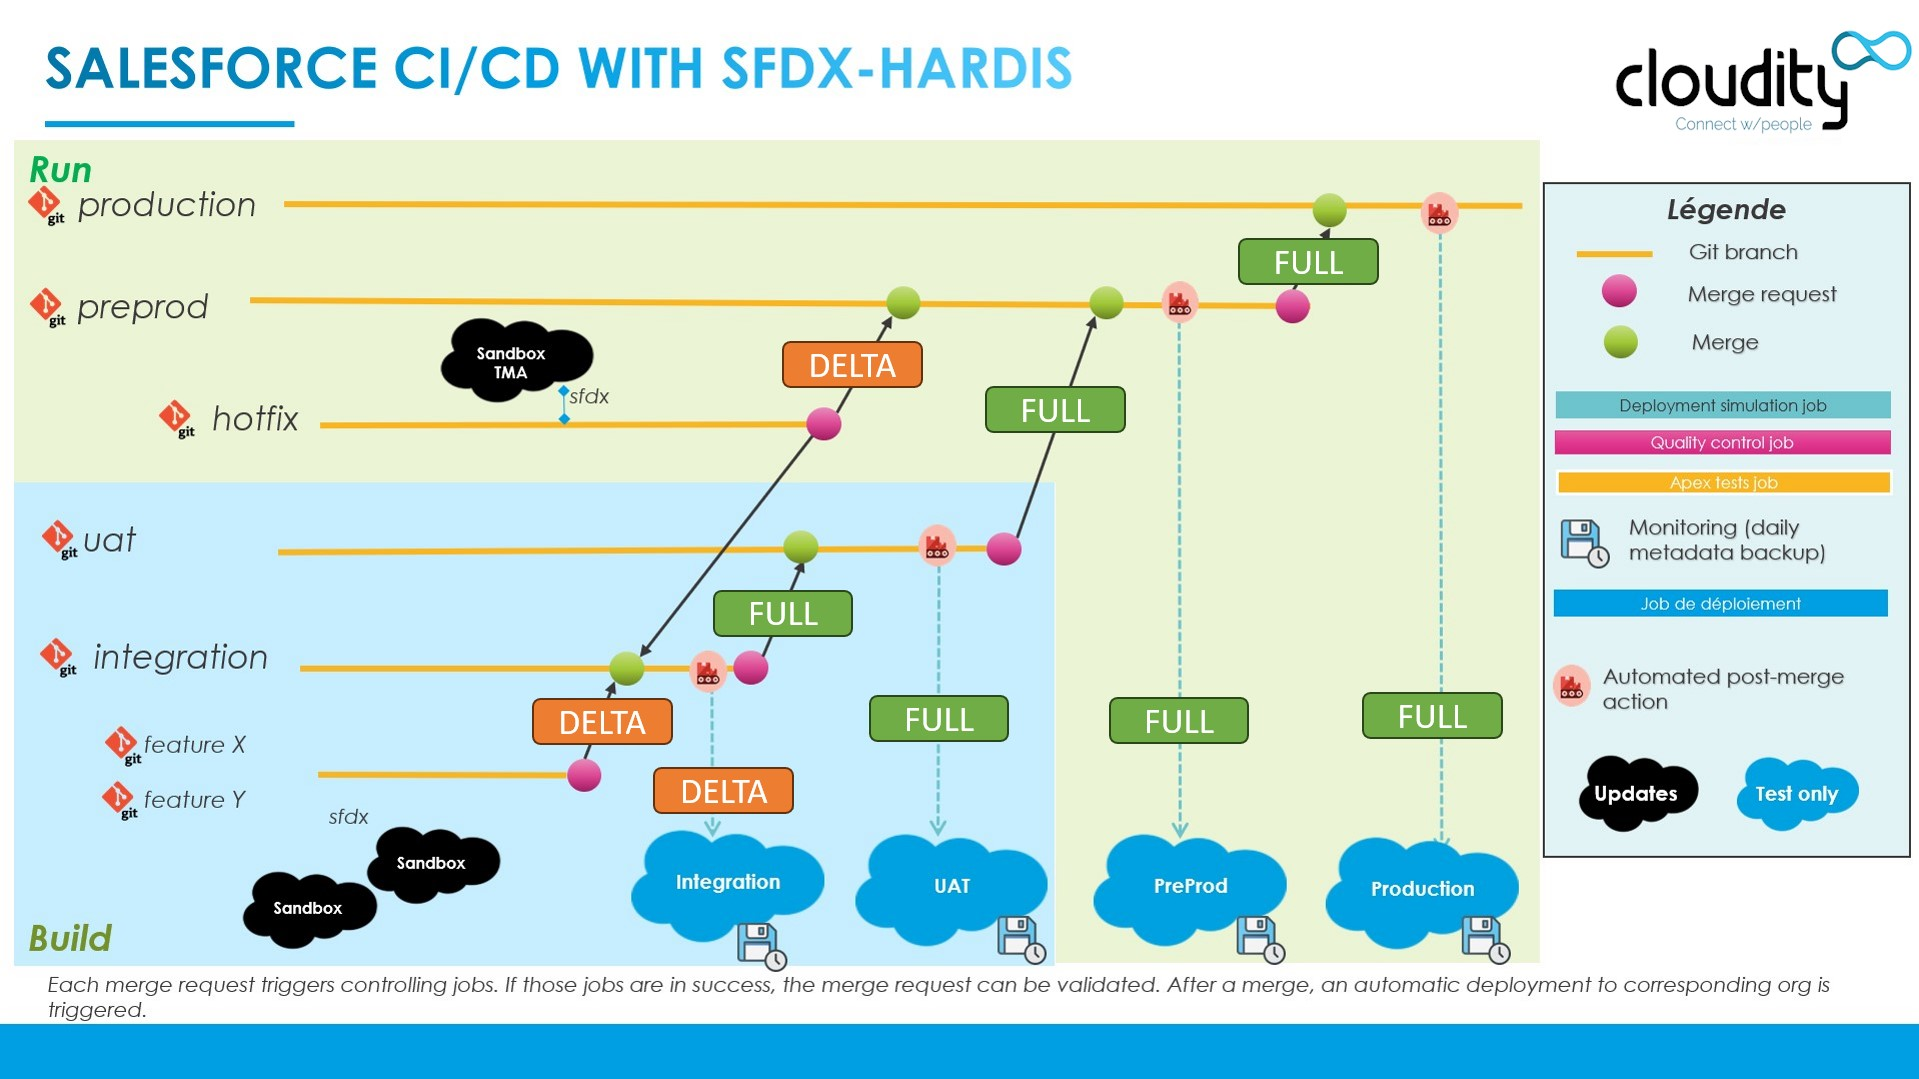
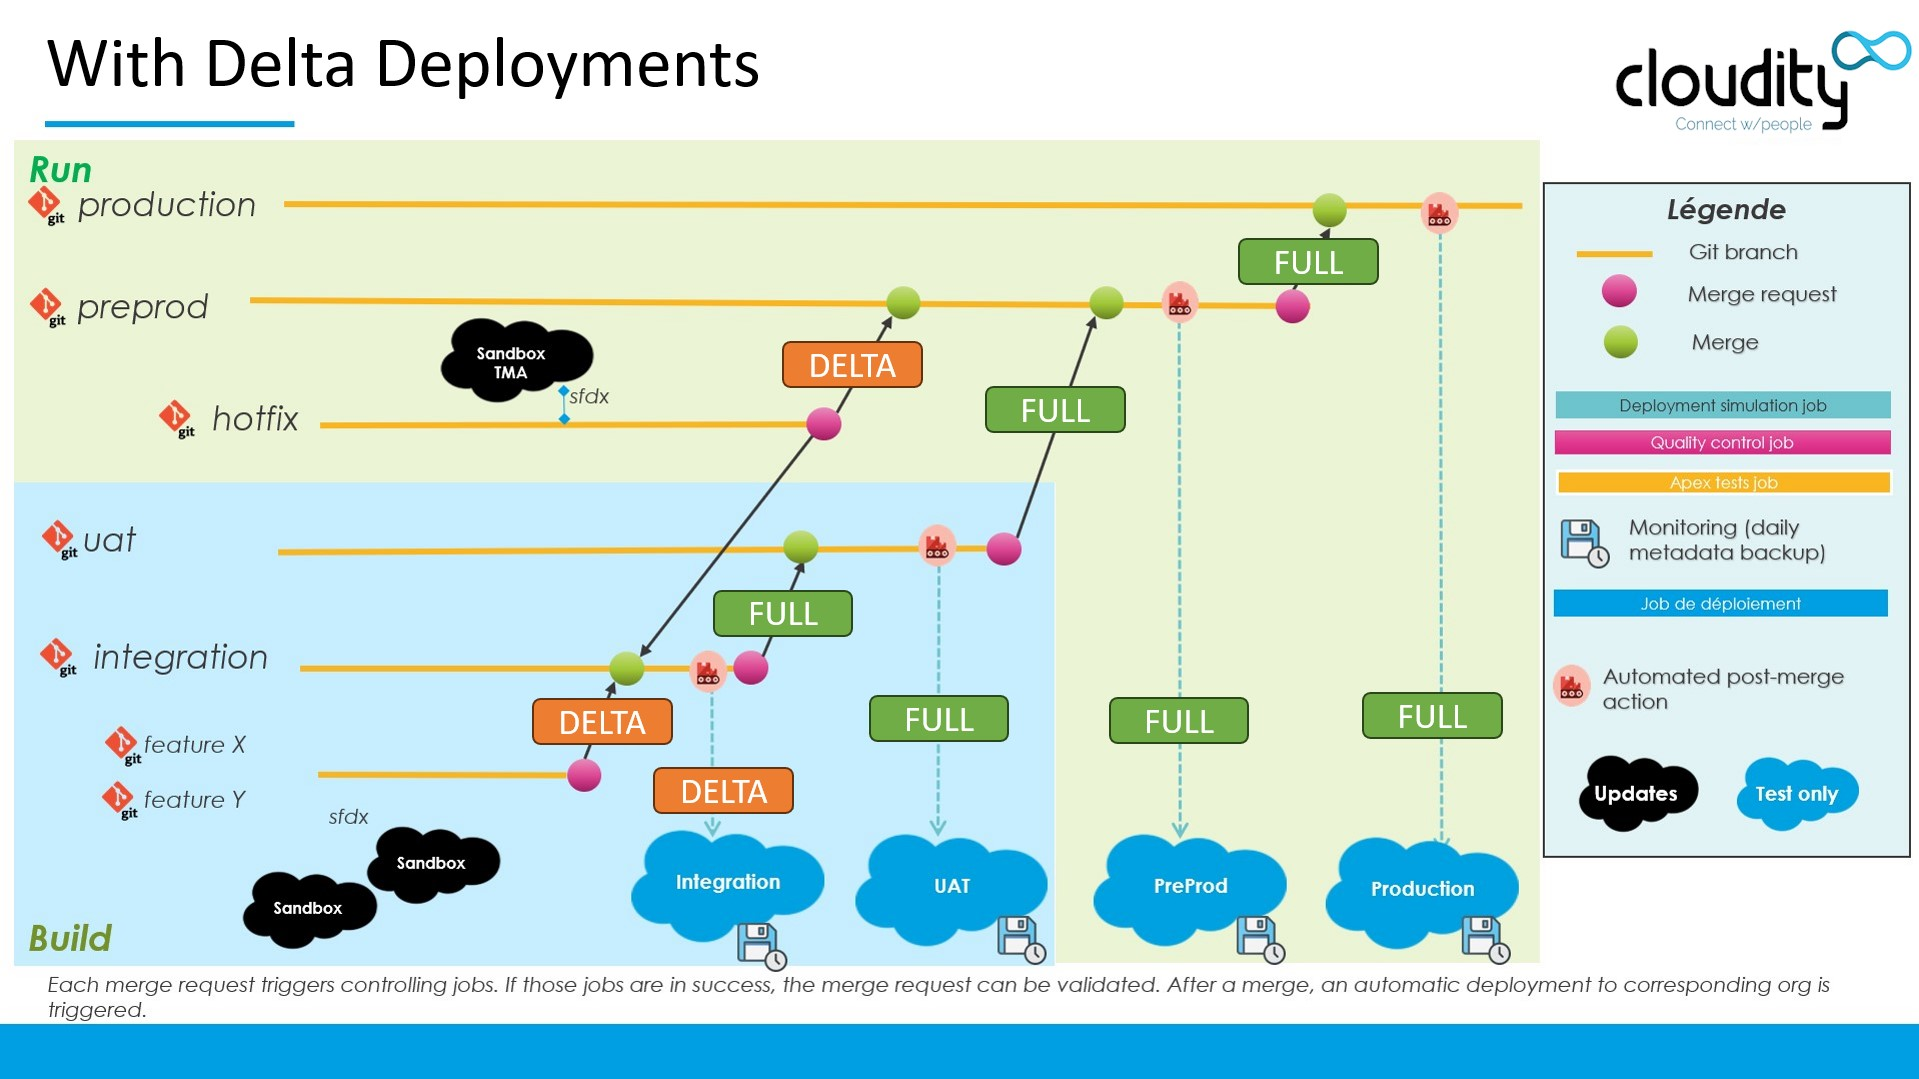
Mode delta illustrations

Changed region(s): [[0.0, 0.0306, 0.5534, 0.0918]]

diff --git a/docs/salesforce-ci-cd-config-delta-deployment.md b/docs/salesforce-ci-cd-config-delta-deployment.md
@@ -5,6 +5,8 @@ description: Learn how to configure Delta Deployments using sfdx-git-delta on a 
 <!-- markdownlint-disable MD013 -->
 
 - [Delta deployments (beta)](#delta-deployments-beta)
+  - [Full mode](#full-mode)
+  - [Delta mode](#delta-mode)
 - [Configuration](#configuration)
 
 ___
@@ -13,16 +15,26 @@ ___
 
 _sfdx-hardis delta deployment is in beta but can already be safely used_
 
+___
+
+### Full mode
+
 By default, all deployments job (check deploy & process deploy) deploy the **full content of the `package.xml` minus what is matching `package-no-overwrite.xml`** (formerly `packageDeployOnce.xml`)
+
+![](assets/images/ci-cd-schema-delta-off.jpg)
 
 This is the safest way to deploy at each level
 
 - major to major
 - minor to major
 
-![](assets/images/ci-cd-schema-delta.jpg)
+___
 
-But in order to improve performances on project with large metadata base, you can **activate delta deployments** for Pull Request/Merge Requests **from a minor branch** (examples: `feature/xxx`, `debug/xxx`) **to a major branch** (ex: `integration`, `uat`, `preprod`, `production`: sfdx-hardis will **deploy only updated metadatas** in the Pull Request / Merge Request.
+### Delta mode
+
+In order to improve performances on project with large metadata base, you can **activate delta deployments** for Pull Request/Merge Requests **from a minor branch** (examples: `feature/xxx`, `debug/xxx`) **to a major branch** (ex: `integration`, `uat`, `preprod`, `production`: sfdx-hardis will **deploy only updated metadatas** in the Pull Request / Merge Request.
+
+![](assets/images/ci-cd-schema-delta.jpg)
 
 ![](assets/images/screenshot-delta-deployment.jpg)
 
@@ -34,6 +46,8 @@ Examples:
 - **integration to uat** will be **FULL** DEPLOYMENT
 - **hotfixes/fix-stuff to preprod** will be **DELTA** DEPLOYMENT
 - **preprod to production** will be **FULL** DEPLOYMENT
+
+___
 
 ## Configuration
 
